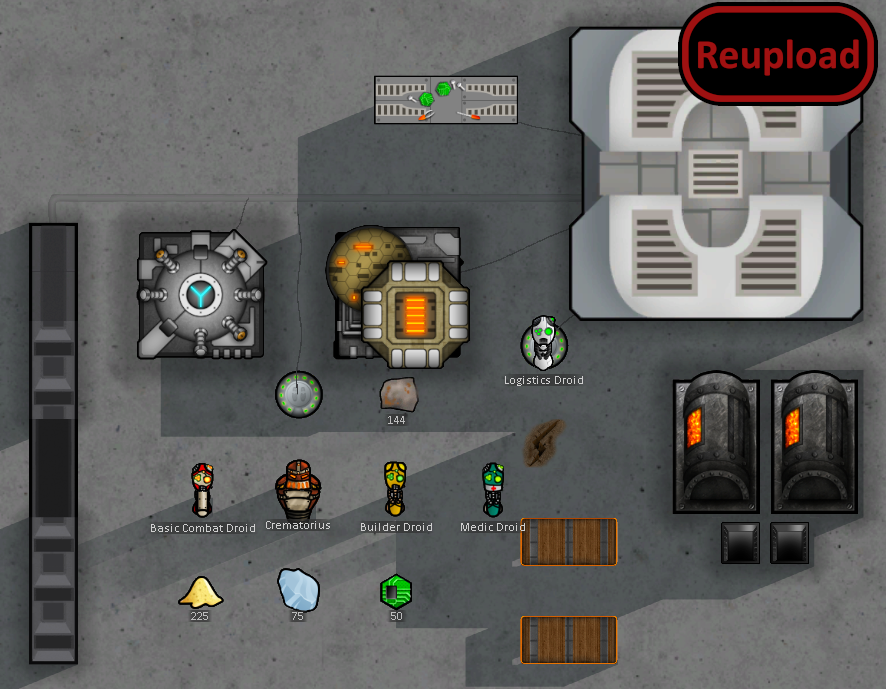
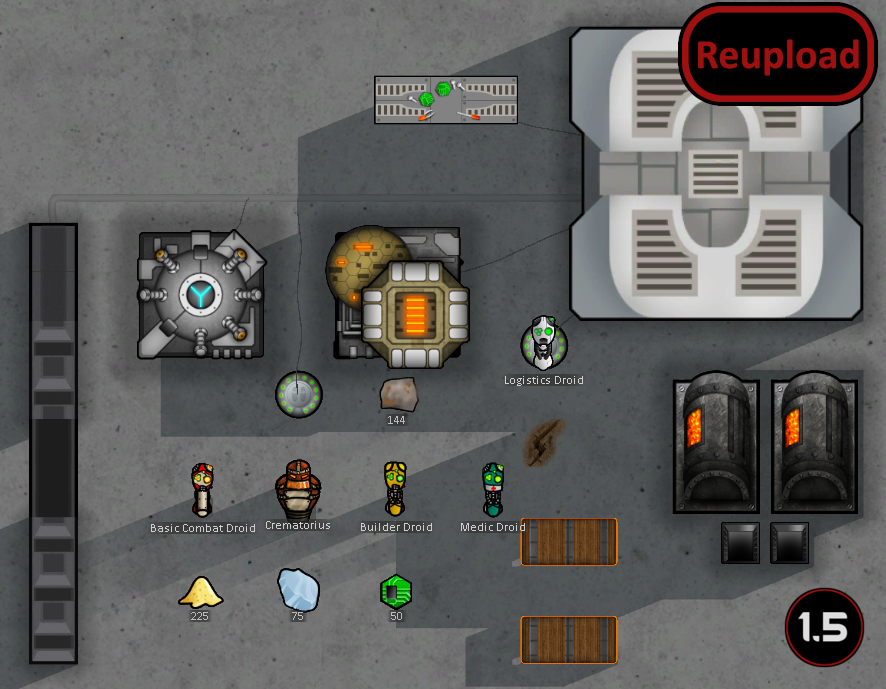
Mod updated for 1.5 and passed autotests

Changed region(s): [[0.8837, 0.8534, 0.9752, 0.9753]]

diff --git a/README.md b/README.md
@@ -51,11 +51,13 @@ Changelog in forumtopic or about folder of mod.
 
 -  See if the the error persists if you just have this mod and its requirements active.
 -  If not, try adding your other mods until it happens again.
--  Post your error-log using https://steamcommunity.com/workshop/filedetails/?id=818773962]HugsLib and command Ctrl+F12
+-  Post your error-log using https://steamcommunity.com/workshop/filedetails/?id=818773962]HugsLib or the standalone https://steamcommunity.com/sharedfiles/filedetails/?id=2873415404]Uploader and command Ctrl+F12
 -  For best support, please use the Discord-channel for error-reporting.
 -  Do not report errors by making a discussion-thread, I get no notification of that.
 -  If you have the solution for a problem, please post it to the GitHub repository.
+-  Use https://github.com/RimSort/RimSort/releases/latest]RimSort to sort your mods
 
 
 
+https://steamcommunity.com/sharedfiles/filedetails/changelog/2016339042]![Image](https://img.shields.io/github/v/release/emipa606/MechanicalDefense2DeepStorage?label=latest%20version&style=plastic&color=9f1111&labelColor=black)
 
